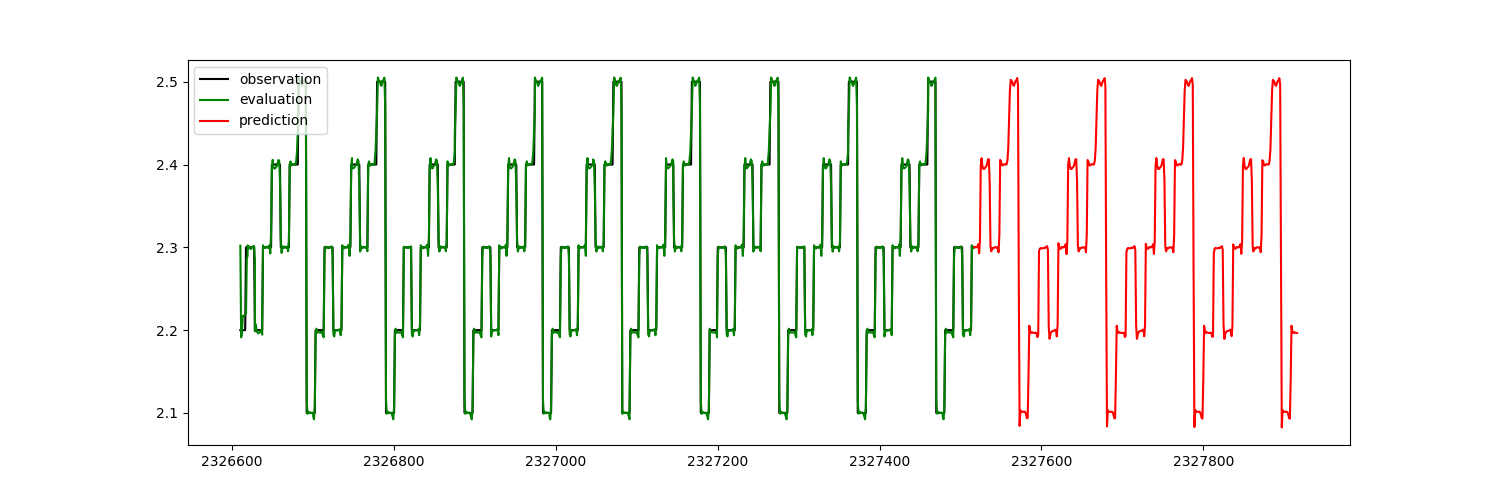
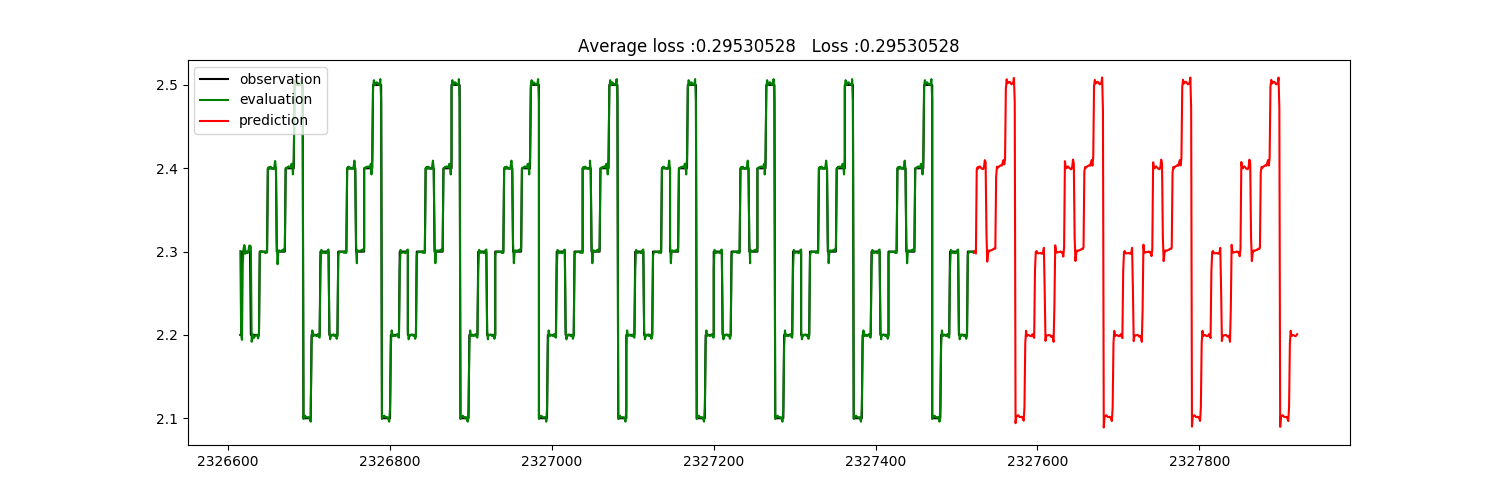
upload files:  json receiver  GPB receiver
telemetry.proto
 uptime.proto
 qos.proto
 cisco.proto

output json result

update udp length limitation

add telemetry prometheus lab directory

add machine learning engine

diff --git a/Telemetry_Prometheus/machine_learning_engine/predict_telemetry_prometheus.py b/Telemetry_Prometheus/machine_learning_engine/predict_telemetry_prometheus.py
@@ -1,4 +1,6 @@
 '''
+   Sample code to predict telemetry data trend fromprometheus with tensorflow LSTM RNN
+
    Class predictor and function predictor_LSTM , input time series source data ,
    result  return evaluated observed and prdicted value and all times ,
 
@@ -52,42 +54,42 @@ if __name__ == '__main__':
   prometheus_api_url = "http://10.75.58.17:9090/api/v1/query"
 
   #prometheus data stream sample 01
-  prometheus_tsdb_block_load_query = '''prometheus_tsdb_blocks_loaded{job="prometheus"}[168h]'''
-  prometheus_tsdb_block_load_sample_rate = 40
-  prometheus_tsdb_block_load_compress_rate = 10
-  prometheus_tsdb_block_load_time_sample = 60
-  prometheus_tsdb_block_load_time_metric = 1000
+  prometheus_query = '''prometheus_tsdb_blocks_loaded{job="prometheus"}[168h]'''
+  prometheus_sample_rate = 40
+  prometheus_compress_rate = 10
+  prometheus_time_sample = 60
+  prometheus_time_metric = 1000
 
-  #prometheus_tsdb_block_load_query = '''ios_xr_system_uptime{instance="10.75.53.220:9997",job="alex_telemetry_exporter"}[5d]'''
-  #prometheus_tsdb_block_load_sample_rate = 1
-  #prometheus_tsdb_block_load_compress_rate = 225000
-  #prometheus_tsdb_block_load_time_sample = 15
-  #prometheus_tsdb_block_load_time_metric = 1000
+  #prometheus_query = '''ios_xr_system_uptime{instance="10.75.53.220:9997",job="alex_telemetry_exporter"}[5d]'''
+  #prometheus_sample_rate = 1
+  #prometheus_compress_rate = 225000
+  #prometheus_time_sample = 15
+  #prometheus_time_metric = 1000
 
-  #prometheus_tsdb_block_load_query = '''system_cpu_load{instance="10.75.58.20:9999",job="alex_enkins_exporter"}[7d]'''
-  #prometheus_tsdb_block_load_sample_rate = 8
-  #prometheus_tsdb_block_load_compress_rate = 1
-  #prometheus_tsdb_block_load_time_sample = 15
-  #prometheus_tsdb_block_load_time_metric = 1000
+  #prometheus_query = '''system_cpu_load{instance="10.75.58.20:9999",job="alex_enkins_exporter"}[7d]'''
+  #prometheus_sample_rate = 8
+  #prometheus_compress_rate = 1
+  #prometheus_time_sample = 15
+  #prometheus_time_metric = 1000
 
 
   #prometheus data stream sample 02
-  #prometheus_tsdb_block_load_query = '''prometheus_tsdb_head_chunks{job="prometheus"}[24h]'''
-  #prometheus_tsdb_block_load_sample_rate = 5
-  #prometheus_tsdb_block_load_compress_rate = 10000
-  #prometheus_tsdb_block_load_time_sample = 60
-  #prometheus_tsdb_block_load_time_metric = 1000
+  #prometheus_query = '''prometheus_tsdb_head_chunks{job="prometheus"}[24h]'''
+  #prometheus_sample_rate = 5
+  #prometheus_compress_rate = 10000
+  #prometheus_time_sample = 60
+  #prometheus_time_metric = 1000
 
 
   #call data source get data from prometheus
 
   ds = MLE.data_source()
   data = ds.data_source_prometheus(url = prometheus_api_url,
-                                   promql = prometheus_tsdb_block_load_query,
-                                   sample_rate = prometheus_tsdb_block_load_sample_rate,
-                                   compress_rate = prometheus_tsdb_block_load_compress_rate,
-                                   time_sample = prometheus_tsdb_block_load_time_sample,
-                                   time_metric = prometheus_tsdb_block_load_time_metric)
+                                   promql = prometheus_query,
+                                   sample_rate = prometheus_sample_rate,
+                                   compress_rate = prometheus_compress_rate,
+                                   time_sample = prometheus_time_sample,
+                                   time_metric = prometheus_time_metric)
 
 
   #data = ds.data_source_sample_sine_02() #try sample data source
@@ -107,7 +109,8 @@ if __name__ == '__main__':
   predicted_lines = plt.plot(result["predicted_times"], result["predicted"], label="prediction", color="r")
 
   plt.legend(handles=[observed_lines[0], evaluated_lines[0], predicted_lines[0]],loc="upper left")
-
+  loss_info = 'Average loss :'+str(result["average_loss"])+'   Loss :'+str(result["loss"])
+  plt.title(loss_info)
   #plt.show()
   
   plt.savefig('predict_result.png')
